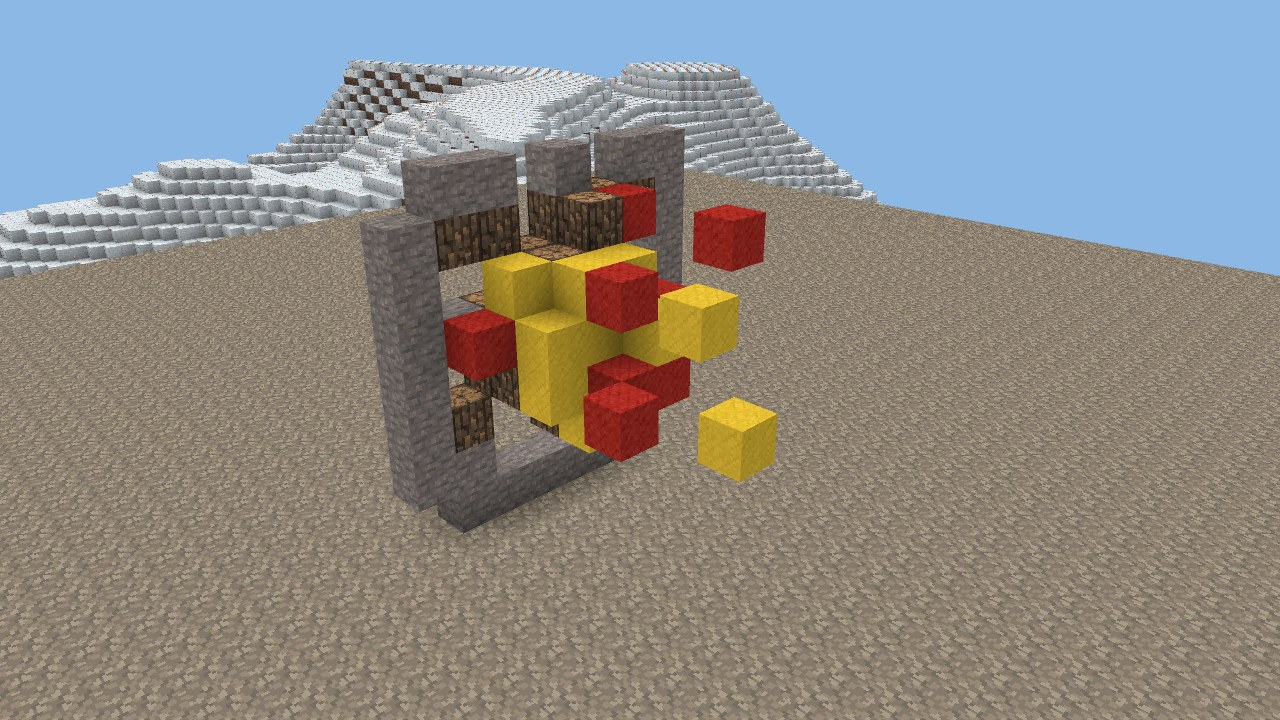
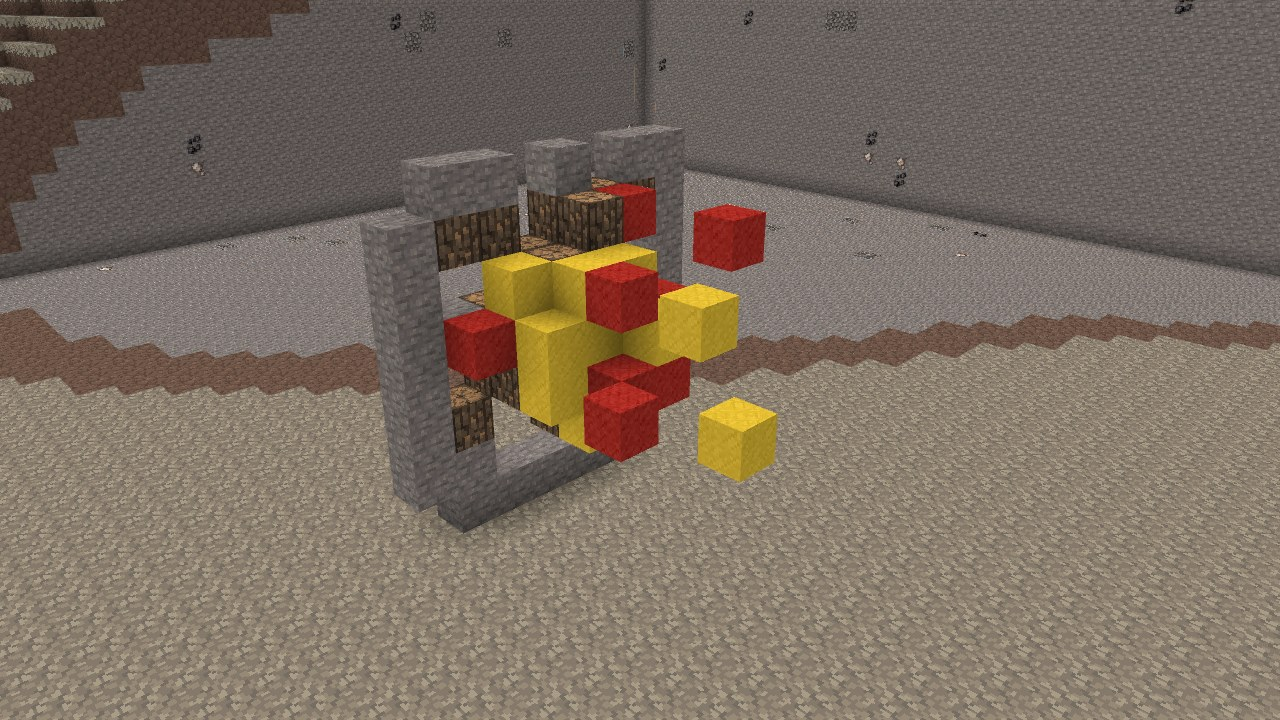
M40g: props rig fixes — worldgen contamination, ChunkHeight clamp, fence1 axis
- M40PropsSnapshot: disable StructureSet during the run (random anchors
  stamped buildings INTO the platform, dogstand census 642 vs 346 file);
  platform at fixed y=34 (max-terrain put H=20 props past ChunkHeight=80,
  dropping 59 umbrella voxels silently)
- fence1: source is 31x2x18 — the 2-voxel y axis is the thickness, not the
  height; swap=True stands the fence upright (was lying flat)
- dogstand full res (sub=1, H=20 whitelist): umbrella/glass/sign all
  survive; census 346 == file voxel count

diff --git a/VoxelCraft/Assets/Editor/M40PropsSnapshot.cs b/VoxelCraft/Assets/Editor/M40PropsSnapshot.cs
@@ -16,6 +16,15 @@ namespace VoxelCraft.Editor
         public static void Run()
         {
             var sim = new WorldSim(1337);
+            // suppress worldgen structures during this run: random anchors
+            // (30%/cell) stamp buildings INTO the platform area, contaminating
+            // both the census and the shots (dogstand census showed +296 alien
+            // voxels incl. 257 Brick)
+            var savedSet = (string[])TerrainGenerator.StructureSet.Clone();
+            for (int si = 0; si < TerrainGenerator.StructureSet.Length; si++)
+            {
+                TerrainGenerator.StructureSet[si] = "zz_disabled_" + si; // Load() returns null -> skip
+            }
             var atlas = Art.TextureFactory.Build();
             var rects = new Rect[59];
             for (int i = 0; i < rects.Length; i++) { rects[i] = atlas.TileRect((TileId)i); }
@@ -60,19 +69,17 @@ namespace VoxelCraft.Editor
             sim.Step(pcx, pcz, 100000f, 100000f, remP, null);
             foreach (var cP in remP) attach(cP);
 
-            // flat 60x60 platform at a fixed height
-            int mx = int.MinValue;
-            for (int x = -4; x < 60; x += 2)
-                for (int z = -4; z < 60; z += 2)
-                    mx = Mathf.Max(mx, sim.generator.HeightAt(px + x, pz + z));
-            int platBaseY = mx;
+            // flat 60x60 platform at a FIXED LOW height — max-of-terrain put tall
+            // props (dogstand H=20 umbrella) past ChunkHeight=80, silently
+            // dropping their top layers (59 voxels vanished)
+            int platBaseY = 34;
             var affected = new List<Chunk>();
             for (int x = -4; x < 60; x++)
                 for (int z = -4; z < 60; z++)
                 {
                     int colTop = sim.SurfaceHeight(px + x, pz + z, true);
                     for (int y = colTop; y <= platBaseY; y++) sim.SetBlock(px + x, y, pz + z, BlockType.Grass, affected);
-                    for (int y = platBaseY + 1; y <= platBaseY + 30; y++) sim.SetBlock(px + x, y, pz + z, BlockType.Air, affected);
+                    for (int y = platBaseY + 1; y <= platBaseY + 40; y++) sim.SetBlock(px + x, y, pz + z, BlockType.Air, affected);
                 }
 
             // camera + render helper with the fog/brightness globals (M31 lesson)

diff --git a/Tools/remap_props.py b/Tools/remap_props.py
@@ -467,7 +467,7 @@ CFG = {
     'stlight1':  dict(swap=True,  sub=2),  # 38x4x32 like stlight
     'trlight1':  dict(swap=True,  sub=1),  # 6x6x8 lamp box
     'container1':dict(swap=False, sub=2),  # 60x15x15 shipping crate /2
-    'fence1':    dict(swap=False, sub=1),  # 31x2x18 long fence (Y-up)
+    'fence1':    dict(swap=True,  sub=1),  # 31x2x18: y is only a 2-voxel-thick slab, the 11-voxel-per-layer z axis is the height (upright fence; swap=False laid it flat on the ground)
     'column1':   dict(swap=True,  sub=2),  # 20x21x20 column -> 10x10x10
     'mushroom1': dict(swap=True,  sub=1),  # tiny red mushroom
     'planter1':  dict(swap=True,  sub=1),  # like planter
@@ -476,7 +476,7 @@ CFG = {
     'playgrnd1': dict(swap=True,  sub=1),  # 35x7x16 climbing frame
     'grill':     dict(swap=False, sub=1),  # 7x5x7 BBQ
     'campfire':  dict(swap=False, sub=1),  # 8x8x7 logs+fire
-    'dogstand':  dict(swap=True,  sub=2),  # 40x20x20 stand -> 20x10x10
+    'dogstand':  dict(swap=True,  sub=1),  # 40x40x20 sparse wireframe stand — /2 eats 3/4 of 346 voxels, keep full res
     'rubbish1':  dict(swap=False, sub=1),  # 5x6x2 litter pile
     # table3 skipped: ambiguous tall profile
 }

diff --git a/Tools/vox_lint.py b/Tools/vox_lint.py
@@ -104,7 +104,7 @@ EXPECT = {
     'dogstand':  (3, {'Glass', 'WoolYellow', 'WoolWhite'}),
     'rubbish1':  (1, {'Log'}),
 }
-HEIGHT_WHITELIST = {'tree2': 19, 'sign1': 19, 'sign5': 19}   # tall thin poles, y-guard in stamper
+HEIGHT_WHITELIST = {'tree2': 19, 'sign1': 19, 'sign5': 19, 'dogstand': 20, 'fence1': 18}   # tall thin poles, y-guard in stamper
 FLAT_OK = {'sidewalk2', 'sign1', 'sign5', 'curb2'}             # flat pavement tiles & 1-deep sign plates
 
 def load(path):
